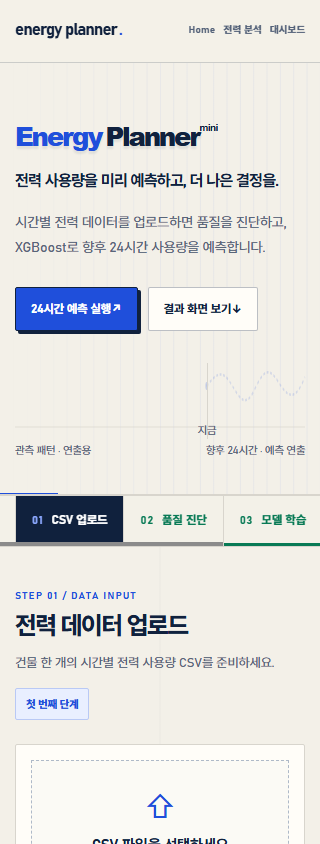
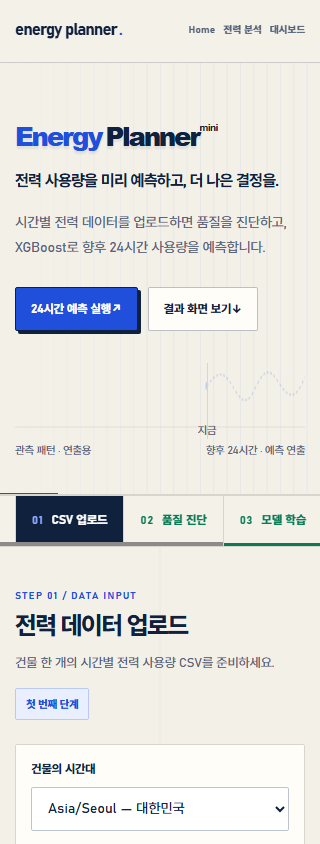
fix: place timezone before CSV upload

Changed region(s): [[0.0938, 0.8934, 0.7188, 1.0], [0.875, 0.955, 0.9062, 0.9858]]

diff --git a/frontend/index.html b/frontend/index.html
@@ -27,12 +27,12 @@
 
     <section class="section workflow-panel" id="upload" data-step-panel="1" tabindex="-1">
       <div class="section-heading"><div><div class="eyebrow">STEP 01 / DATA INPUT</div><h2 id="upload-title">전력 데이터 업로드</h2><div class="sub">건물 한 개의 시간별 전력 사용량 CSV를 준비하세요.</div></div><span class="status blue">첫 번째 단계</span></div>
-      <div class="grid2 section-body"><div class="panel">
+      <div class="grid2 section-body upload-input-grid"><div class="panel timezone-panel">
+        <label class="field" for="timezone">건물의 시간대</label><select id="timezone" name="building_timezone" class="select" aria-describedby="timezone-help" required><option value="Asia/Seoul">Asia/Seoul — 대한민국</option><option value="Asia/Tokyo">Asia/Tokyo — 일본</option><option value="America/New_York">America/New_York — 미국 동부</option><option value="America/Chicago">America/Chicago — 미국 중부</option><option value="America/Los_Angeles">America/Los_Angeles — 미국 서부</option><option value="Europe/London">Europe/London — 영국</option><option value="Europe/Paris">Europe/Paris — 프랑스</option><option value="Australia/Sydney">Australia/Sydney — 호주</option><option value="UTC">UTC — 협정 세계시</option></select><div class="spacer"></div><div class="hint" id="timezone-help"><strong>ⓘ 어떤 CSV를 준비해야 하나요?</strong><div>열 이름은 <code>timestamp</code>, <code>kwh</code>입니다. 각 행은 1시간 구간 시작 시각과 0 이상 전력 사용량(kWh)을 나타냅니다. 최소 90일 이상 데이터가 필요합니다.</div></div><p class="muted">건물 ID는 서버가 자동 생성합니다. UTC 오프셋이 없으면 선택한 건물 시간대를 적용합니다.</p>
+      </div><div class="panel upload-panel">
         <div id="drop-zone" class="drop" tabindex="0" role="button" aria-label="CSV 파일 선택"><input id="csv-file" name="csv_file" type="file" accept=".csv,text/csv" autocomplete="off" hidden><span class="upload-arrow" aria-hidden="true">⇧</span><strong>CSV 파일을 선택하세요</strong><small>timestamp / kwh 필수 · 파일당 건물 1개</small><button id="choose-file" class="btn" type="button">파일 선택</button></div>
         <div id="file-info" class="file-row" hidden aria-live="polite"><div class="file-copy"><span>선택한 파일</span><strong id="selected-file-name"></strong><small id="selected-file-meta"></small><p id="selected-file-state">브라우저에서 선택됨 · 아직 품질 진단 전</p></div><div class="file-actions"><button id="change-file" class="btn" type="button">파일 변경</button><button id="clear-file" class="btn quiet" type="button">삭제</button></div></div>
         <div class="actions panel-actions"><button id="analyze" class="btn primary" type="button" disabled>품질 진단 실행 →</button></div>
-      </div><div class="panel">
-        <label class="field" for="timezone">건물의 시간대</label><select id="timezone" name="building_timezone" class="select" aria-describedby="timezone-help" required><option value="Asia/Seoul">Asia/Seoul — 대한민국</option><option value="Asia/Tokyo">Asia/Tokyo — 일본</option><option value="America/New_York">America/New_York — 미국 동부</option><option value="America/Chicago">America/Chicago — 미국 중부</option><option value="America/Los_Angeles">America/Los_Angeles — 미국 서부</option><option value="Europe/London">Europe/London — 영국</option><option value="Europe/Paris">Europe/Paris — 프랑스</option><option value="Australia/Sydney">Australia/Sydney — 호주</option><option value="UTC">UTC — 협정 세계시</option></select><div class="spacer"></div><div class="hint" id="timezone-help"><strong>ⓘ 어떤 CSV를 준비해야 하나요?</strong><div>열 이름은 <code>timestamp</code>, <code>kwh</code>입니다. 각 행은 1시간 구간 시작 시각과 0 이상 전력 사용량(kWh)을 나타냅니다. 최소 90일 이상 데이터가 필요합니다.</div></div><p class="muted">건물 ID는 서버가 자동 생성합니다. UTC 오프셋이 없으면 선택한 건물 시간대를 적용합니다.</p>
       </div></div>
     </section>
 

diff --git a/frontend/reference-system.css b/frontend/reference-system.css
@@ -110,6 +110,7 @@ a { color: inherit; }
 .section > .section-body + .section-body { margin-top: 18px; }
 .panel { min-width: 0; border: 1px solid var(--line); border-radius: 2px; background: var(--paper); padding: 24px; }
 .grid2 { display: grid; grid-template-columns: 1.15fr .85fr; gap: 18px; }
+.upload-input-grid { grid-template-columns: .85fr 1.15fr; }
 .grid4 { display: grid; grid-template-columns: repeat(4, minmax(0, 1fr)); gap: 12px; }
 .status { display: inline-flex; align-items: center; max-width: 100%; min-height: 32px; border: 1px solid var(--line); border-radius: 2px; background: var(--paper); color: #67788b; padding: 6px 10px; font-size: 11px; font-weight: 800; overflow-wrap: anywhere; }
 .status.blue { border-color: #b9c9f5; background: #e9efff; color: var(--blue); }
